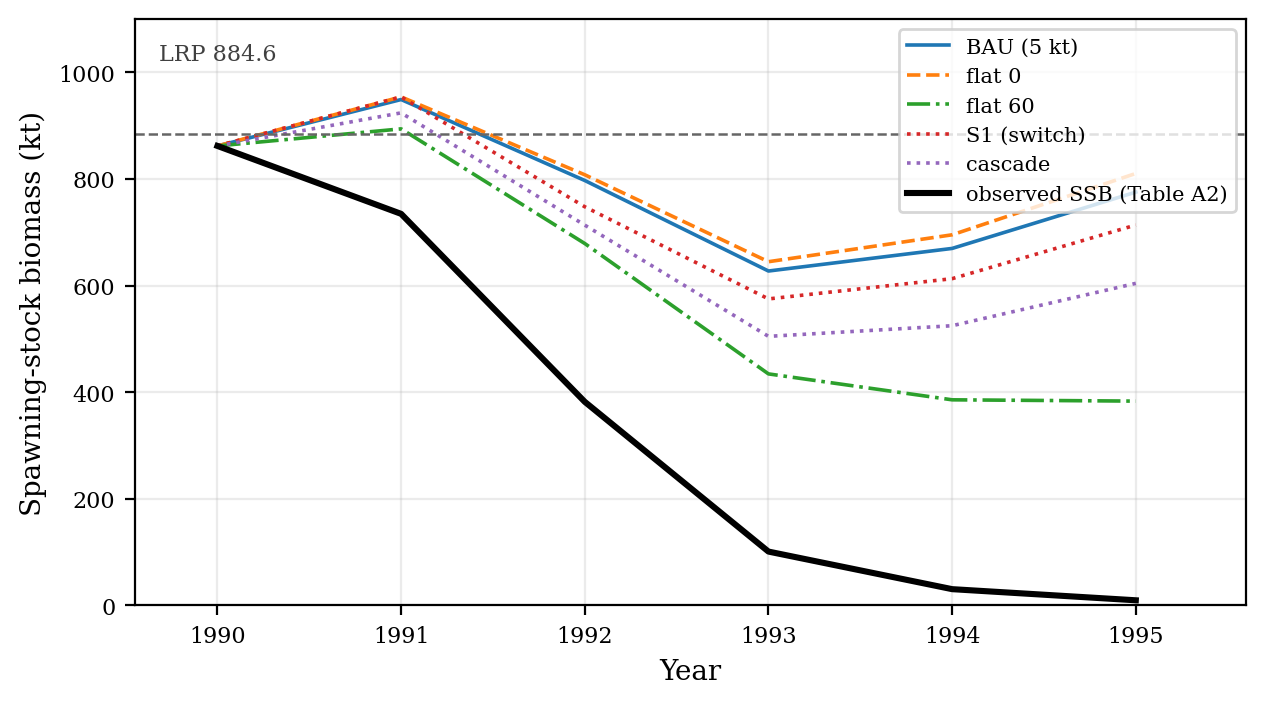
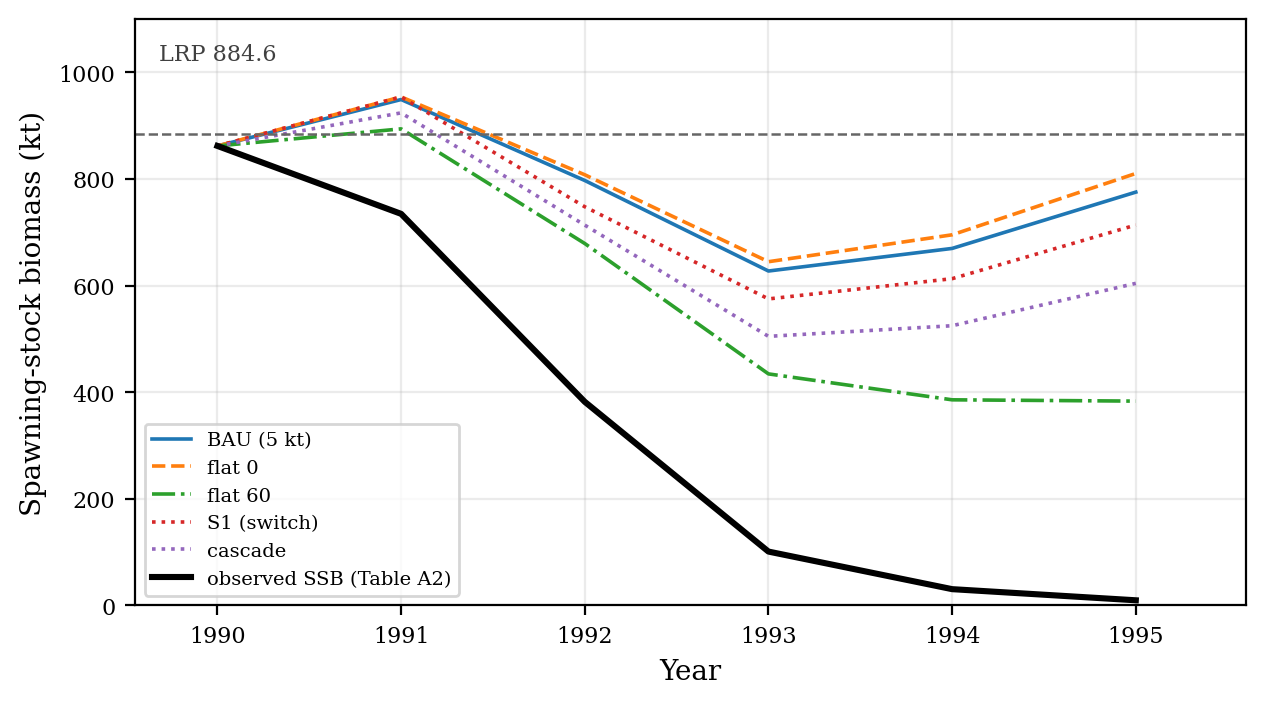
E2 v16 figures: further nudge fig2 91.6 kt label below the dashed T=1 line; move fig5 legend to lower-left; place fig6 K=2K* label in empty upper-left with leader

Changed region(s): [[0.7085, 0.0312, 0.9858, 0.3121], [0.0924, 0.5929, 0.3697, 0.8738], [0.9242, 0.1872, 0.9858, 0.2184]]

diff --git a/wave_e_cod/src/make_figs_v16.py b/wave_e_cod/src/make_figs_v16.py
@@ -126,12 +126,12 @@ fig, ax = plt.subplots(figsize=(6.4, 3.6))
 ax.plot(C, b_inf, "k-", lw=1.4, label="$T=\\infty$ lower boundary (q10 floor)")
 ax.plot(C, b_1, "0.55", ls="--", lw=1.2, label="$T=1$ lower boundary (q10 floor)")
 ax.axvline(cons, color="0.6", ls=":", lw=0.9)
-# annotation placed in the empty wedge between the rising black curve (above)
-# and the dashed T=1 line (below), near C=150, clear of the legend; leader down
-# to the marked vertical
+# annotation placed in the empty band below the dashed T=1 line (which stays
+# near y~908-98x for C>=118) and right of the BAU / 60-kt point labels; short
+# leader up to the marked vertical
 ax.annotate(f"{cons:.1f} kt: maximal robust flat catch",
-            xy=(cons, b_inf[np.argmin(np.abs(C - cons))]),
-            xytext=(150, 1260), fontsize=8, ha="center",
+            xy=(cons, 884.6),
+            xytext=(121, 872), fontsize=8, ha="left",
             arrowprops=dict(arrowstyle="->", color="0.4", lw=0.7))
 for c_mark, lab, dx, dy in ((5, "BAU", 2, -55), (60, "60 kt / S1", 6, -55),
                             (120, "flat 120", 6, -55), (180, "flat 180", 6, -55),
@@ -240,7 +240,8 @@ ax.axhline(K_star, color="0.4", ls="--", lw=0.9)
 ax.text(1989.68, 1055, "LRP 884.6", fontsize=8, ha="left", va="top", color="0.25")
 ax.set_xlabel("Year"); ax.set_ylabel("Spawning-stock biomass (kt)")
 ax.set_xlim(1989.55, 1995.6); ax.set_ylim(0, 1100); ax.grid(alpha=0.25)
-ax.legend(loc="upper right", fontsize=7.5)
+# legend in the empty lower-left where only the black observed line descends
+ax.legend(loc="lower left", fontsize=7.0)
 fig.tight_layout(); fig.savefig(FIG / "fig5_replay.png", bbox_inches="tight"); plt.close(fig)
 
 # ===========================================================================
@@ -262,7 +263,11 @@ a1.set_ylim(100, 700); a1.grid(alpha=0.25)
 a2.plot(kk, kdf["Fp_Kstar"], "ko-", ms=4, lw=1.2)
 a2.axhline(1.0, color="0.4", ls="--", lw=0.9)
 a2.axvline(2 * K_star, color="0.6", ls=":", lw=0.9)
-a2.text(2 * K_star + 40, 0.995, "$K = 2K^* = 1769.2$", fontsize=7.5)
+# label moved into the empty upper-left region (left of the dotted vertical the
+# curve stays below y=1.0), with a short leader to the marked vertical
+a2.annotate("$K = 2K^* = 1769.2$", xy=(2 * K_star, 1.0),
+            xytext=(1280, 1.12), fontsize=7.5, ha="center",
+            arrowprops=dict(arrowstyle="->", color="0.4", lw=0.7))
 a2.set_xlabel("Carrying capacity $K$ (kt)")
 a2.set_ylabel("$F'(K^*)$ at the LRP")
 a2.set_ylim(0.9, 1.25); a2.grid(alpha=0.25)
